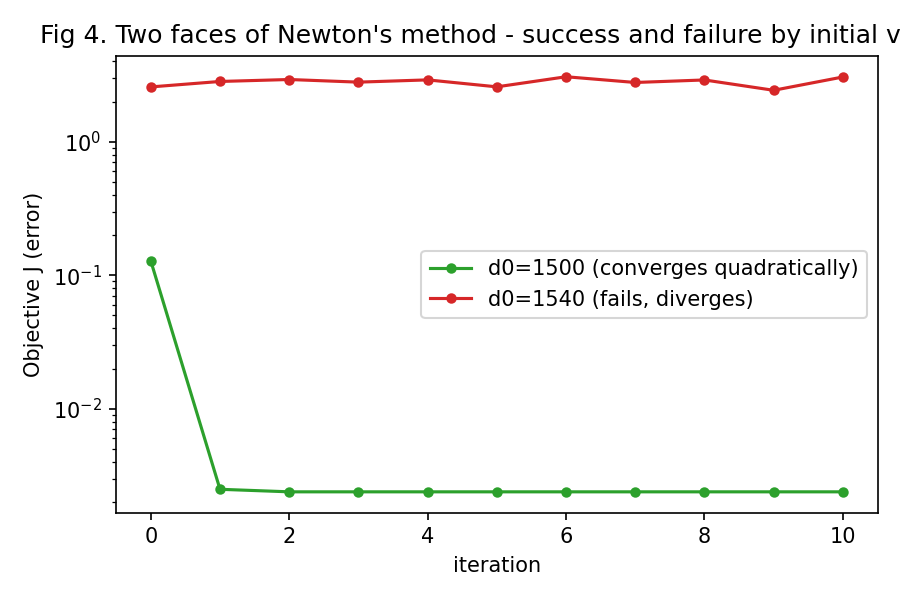
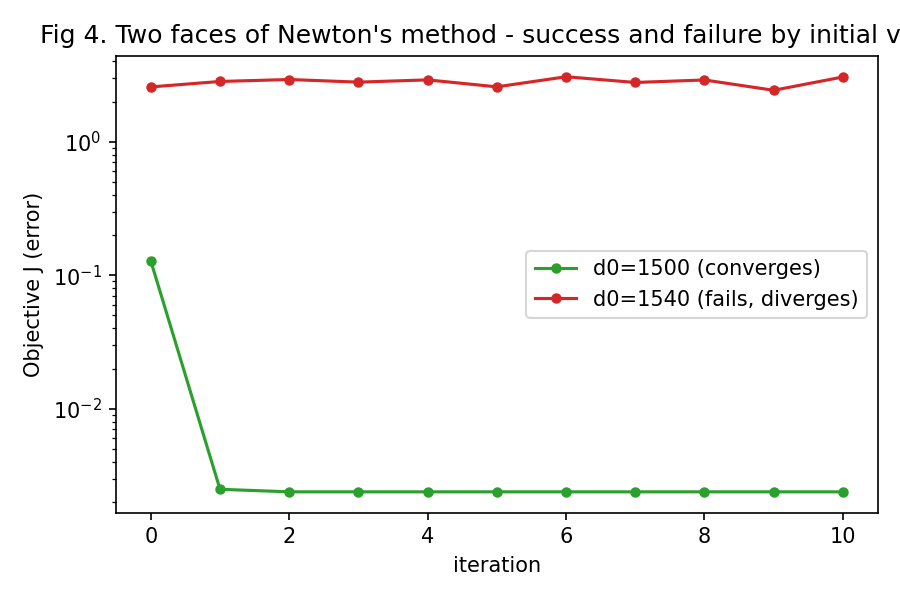
fix(post): optimization-newton-gauss-newton — 점검 반영: 번역체·근거·그림, 그림 다시 생성
tech-writing-style 점검(2026-10-15) 반영:
- 번역체·어색한 문장 다듬기 (한·영)
- 그림·표와 맞지 않던 본문·캡션 서술 정정, 근거보다 넓던 결론을 실험 조건으로 한정
- 그림을 다시 그려야 하는 경미 항목은 따로 처리 예정
근거: _references/optimization-newton-gauss-newton/audit-20261015.md (git 제외)

Changed region(s): [[0.4667, 0.39, 0.9644, 0.54]]

diff --git a/_code/optimization-newton-gauss-newton/generate_figures.py b/_code/optimization-newton-gauss-newton/generate_figures.py
@@ -49,7 +49,7 @@ LABELS = {
         "fig2": "그림2. 두께 추정값 vs iteration (d0=1540nm)",
         "objective_err": "목적함수 J (error)",
         "fig3": "그림3. 목적함수 J vs iteration (d0=1540nm)",
-        "success": "d0={:.0f} (성공, 2차수렴)", "failure": "d0={:.0f} (실패, 발산)",
+        "success": "d0={:.0f} (성공)", "failure": "d0={:.0f} (실패, 발산)",
         "fig4": "그림4. Newton법의 두 얼굴 - 초기값에 따른 성공/실패",
         "p_nt": "[d0={:.0f}] Newton 최종 두께: {:.2f} nm (실패)",
         "p_gn": "[d0={:.0f}] Gauss-Newton 최종 두께: {:.2f} nm",
@@ -77,7 +77,7 @@ LABELS = {
         "fig2": "Fig 2. Thickness estimate vs iteration (d0=1540nm)",
         "objective_err": "Objective J (error)",
         "fig3": "Fig 3. Objective J vs iteration (d0=1540nm)",
-        "success": "d0={:.0f} (converges quadratically)", "failure": "d0={:.0f} (fails, diverges)",
+        "success": "d0={:.0f} (converges)", "failure": "d0={:.0f} (fails, diverges)",
         "fig4": "Fig 4. Two faces of Newton's method - success and failure by initial value",
         "p_nt": "[d0={:.0f}] Newton final thickness: {:.2f} nm (failed)",
         "p_gn": "[d0={:.0f}] Gauss-Newton final thickness: {:.2f} nm",

diff --git a/_posts/2026-09-10-optimization-newton-gauss-newton-en.md b/_posts/2026-09-10-optimization-newton-gauss-newton-en.md
@@ -29,7 +29,7 @@ $$ J'(d) + J''(d)\Delta d = 0 \quad\Longrightarrow\quad \Delta d = -\frac{J'(d)}
 
 $$ d_{k+1} = d_k - \frac{J'(d_k)}{J''(d_k)} $$
 
-In other words, a Newton step jumps straight to the vertex of the parabola fitted at the current point. Compared with gradient descent, $$1/J''(d_k)$$ has taken the place of $\alpha$. Where the local curvature is large — a narrow, steep valley — the step is automatically small; where the curvature is gentle, the step is large. Figure 1 shows the parabola that locally approximates the actual $J(d)$ at a thickness of $d_k=1500$ nm.
+In other words, a Newton step jumps straight to the vertex of the parabola fitted at the current point. Compared with gradient descent, $$1/J''(d_k)$$ has taken the place of $\alpha$. Where the local curvature is large — a narrow, steep valley — the step is automatically small; where the curvature is gentle, the step is large. Fig 1 shows the parabola that locally approximates the actual $J(d)$ at a thickness of $d_k=1500$ nm.
 
 <img src="/assets/img/posts/optimization-newton-gauss-newton/en/fig1-quadratic-approximation.png" alt="Local quadratic approximation of the objective and the Newton step" width="600">
 _Fig 1. Quadratic approximation of the objective fitted at d=1500 nm (red dashed) and the Newton step. The parabola nearly overlaps the actual J(d) (blue), and a single step lands at 1489.8 nm, next to the minimum._
@@ -65,39 +65,39 @@ In theory Newton's method converges quadratically near the solution: each error 
 Under exactly the conditions of post 1 (seed=0, true thickness 1490 nm, the same noise, $d_0=1540$ nm), gradient descent ($\alpha=300$), Newton, and the Gauss-Newton of section 5 were run side by side.
 
 <img src="/assets/img/posts/optimization-newton-gauss-newton/en/fig2-thickness-vs-iteration.png" alt="Thickness estimate versus iteration" width="600">
-_Fig 2. Thickness estimate versus iteration for the three methods from an initial value of 1540 nm. Only Newton (red) fails to converge, circling hundreds of nanometres away from the minimum._
+_Fig 2. Thickness estimate versus iteration for the three methods from an initial value of 1540 nm. Only Newton (red) fails to converge, circling 100 to 400 nm away from the minimum._
 
 <img src="/assets/img/posts/optimization-newton-gauss-newton/en/fig3-objective-vs-iteration.png" alt="Objective function J versus iteration" width="600">
 _Fig 3. The objective J for the same runs (log scale). Gradient descent reaches the noise floor in five steps and Gauss-Newton in three, while Newton stays near its starting value._
 
 The outcome was not the expected one. Gradient descent (blue) converges smoothly, as in post 1. Newton (red), however, jumps to 1876 nm on the very first step, wanders between 1824 and 1921 nm for steps 1 to 9, and on the tenth leaves even that range, dropping to 1637 nm. Either way it is more than 100 nm from the minimum (1490 nm). These individual values are sensitive to rounding error and are not worth quoting; section 3 closes with the reason.
 
-The objective (Fig. 3) makes the difference sharper. Gradient descent reaches the noise floor ($J\approx0.0024$) in five steps — the value below which no thickness can go, because of the measurement noise. Newton's $J$, on the other hand, stays between 2.4 and 3.1 for all ten steps and never gets away from its starting value (2.57). The green curve (Gauss-Newton) is taken up in section 6. For all that quadratic convergence is meant to be faster, at this initial value Newton's method simply does not work.
+The objective (Fig 3) makes the difference sharper. Gradient descent reaches the noise floor ($J\approx0.0024$) in five steps — the value below which no thickness can go, because of the measurement noise. Newton's $J$, on the other hand, stays between 2.4 and 3.1 for all ten steps and never gets away from its starting value (2.57). The green curve (Gauss-Newton) is taken up in section 6. Quadratic convergence is supposed to be faster, yet from this starting value Newton's method does not work at all.
 
 ## 3. Why did Newton's method fail?
 
-The objective $J(d)$ plotted in section 2 of post 1 (Fig. 2 there) makes the reason visible: there are points where the quadratic approximation collapses. The reflectance of a thin film oscillates with thickness as interference fringes, and $J(d)$ was correspondingly non-convex: a global minimum with a row of local minima around it. A quadratic model can be built at any point. But it has a bottom only if the curvature there — $$J''(d)$$ — is positive, since the parabola has to open upward for the step to point toward a minimum. Evaluating $$J''(d)$$ at two points gives:
+The objective $J(d)$ plotted in section 2 of post 1 (Fig 2 there) makes the reason visible: there are points where the quadratic approximation collapses. The reflectance of a thin film oscillates with thickness as interference fringes, and $J(d)$ was correspondingly non-convex: a global minimum with a row of local minima around it. A quadratic model can be built at any point. But it has a bottom only if the curvature there — $$J''(d)$$ — is positive, since the parabola has to open upward for the step to point toward a minimum. Evaluating $$J''(d)$$ at two points gives:
 
 | Point | $$J''(d)$$ | Meaning |
 |---|---|---|
 | $d=1500$ | $+0.002487$ | convex, a well-behaved Newton step |
 | $d=1540$ | $-0.000233$ | concave, the step is thrown the other way |
 
-At $d=1540$ the sign of the curvature is itself inverted. The curvature changes sign at about 1537 nm, and the top of the local "hill" thrown up by the interference fringes is at 1589 nm, so 1540 nm sits on the slope just starting up that hill. The Newton step $$-J'/J''$$ moves in the direction of *increasing* objective whenever $$J''$$ is negative. Figure 4 shows the same method meeting entirely different outcomes from starting points only 40 nm apart.
+At $d=1540$ the sign of the curvature is itself inverted. The curvature changes sign at about 1537 nm, and the top of the local "hill" thrown up by the interference fringes is at 1589 nm, so 1540 nm sits about halfway up that hill, where the curvature turns concave. The Newton step $$-J'/J''$$ moves in the direction of *increasing* objective whenever $$J''$$ is negative. Fig 4 shows the same method meeting entirely different outcomes from starting points only 40 nm apart.
 
 <img src="/assets/img/posts/optimization-newton-gauss-newton/en/fig4-newton-success-vs-failure.png" alt="Two faces of Newton's method" width="600">
-_Fig 4. Two faces of Newton's method. From 1500 nm (green) it reaches the noise floor in two steps; from 1540 nm (red) it is still near its starting objective after ten._
+_Fig 4. Two faces of Newton's method. From 1500 nm (green) it is near the noise floor (0.0025) after one step and at it (0.0024) after two; from 1540 nm (red) it is still near its starting objective after ten._
 
-From $d_0=1500$ (green) the curvature is well behaved and the method drops to the noise floor in two steps, textbook quadratic convergence. From $d_0=1540$ (red) it is still further from the minimum after ten steps than it started.
+From $$d_0=1500$$ (green) the curvature is well behaved and the method falls to near the noise floor (0.0025) in one step and to the floor (0.0024) in two. The quadratic shape is hidden in this plot because $J$ is pinned at the noise floor; it shows in the errors 9.88 → 0.288 → 0.0001 nm of section 1. From $$d_0=1540$$ (red) it is still further from the minimum after ten steps than it started.
 
-Drawing the failed first step the way Figure 1 was drawn shows what happened (Fig. 5). The parabola fitted at $d=1540$ opens downward. With no bottom to find, the Newton step, which looks for the point of zero slope, goes to the top of the parabola. That top lies 336 nm away at 1876 nm, and the first step lands there. The parabola predicts $J=15.7$ at that point; the actual $J$ is 2.83, higher than at the start (2.57).
+Drawing the failed first step the way Fig 1 was drawn shows what happened (Fig 5). The parabola fitted at $d=1540$ opens downward. With no bottom to find, the Newton step, which looks for the point of zero slope, goes to the top of the parabola. That top lies 336 nm away at 1876 nm, and the first step lands there. The parabola predicts $J=15.7$ at that point; the actual $J$ is 2.83, higher than at the start (2.57).
 
 <img src="/assets/img/posts/optimization-newton-gauss-newton/en/fig5-concave-quadratic-approximation.png" alt="Quadratic approximation at a point of negative curvature" width="600">
 _Fig 5. Quadratic approximation fitted where the curvature is negative (d=1540 nm). The parabola (red dashed) opens downward, so the Newton step goes to its top at 1876 nm, where the parabola no longer resembles the actual J(d) (blue)._
 
 So Newton's method does not care whether the vertex of its parabola is a bottom or a top. This is not an implementation bug but a structural weakness of Newton's method. The guarantee that a Newton step is a descent direction holds only where the Hessian at that point is positive definite. For an objective as folded as this one, the fate of the method depends on which "valley" the initial value happens to sit in.
 
-One caveat belongs here. The individual iterates along the diverging trajectory in Figures 2 and 3 are not numbers worth quoting. After the first step the trajectory passes through regions where $$J''$$ is close to zero, which strongly amplifies the rounding error of the central-difference $$J''$$ (about $10^{-9}$). Perturbing the initial value by as little as $10^{-12}$ nm changes that rounding pattern and moves the tenth iterate by more than 200 nm.
+One caveat belongs here. The individual iterates along the diverging trajectory in Figs 2 and 3 are not numbers worth quoting. After the first step the trajectory passes through regions where $$J''$$ is close to zero, which strongly amplifies the rounding error of the central-difference $$J''$$ (about $10^{-9}$). Perturbing the initial value by as little as $10^{-12}$ nm changes that rounding pattern and moves the tenth iterate by more than 200 nm.
 
 ```text
 sensitivity of the diverging trajectory to the initial value (10th-step thickness):
@@ -106,7 +106,7 @@ sensitivity of the diverging trajectory to the initial value (10th-step thicknes
   d0=1540.000000000100 -> 1854.98 nm
 ```
 
-What does reproduce is that the method never converges and wanders hundreds of nanometres from the minimum — not any particular iterate.
+What does reproduce is that the method never converges and wanders 100 to 400 nm from the minimum — not any particular iterate.
 
 ## 4. The limits of Newton's method
 
@@ -134,7 +134,11 @@ The same approximation can be seen from another side: at every step, straighten 
 
 $$ r_i(d+\Delta d) \approx r_i(d) + r_i'(d)\,\Delta d $$
 
-Choosing the $\Delta d$ that minimizes the sum of squares of these lines, $$\frac{1}{2}\sum_i \big[ r_i(d) + r_i'(d)\,\Delta d \big]^2$$, gives exactly the step formula below. Gauss-Newton, in other words, solves one straight-line fit (a linear least-squares problem) per step. It is like replacing a winding mountain path with a flat map of where you stand, choosing where to go, taking one step, and redrawing the map. The sum of squares of a linear model is quadratic in $\Delta d$ with coefficient $$\frac{1}{2}\sum_i r_i'^2 \ge 0$$ on $\Delta d^2$, so it is always a bowl that opens upward. The good property of the approximate Hessian discussed below comes from here. The discarded term $$r_i r_i''$$ reads off the same picture: how far the residual bends away from its line ($$r_i''$$), multiplied by the size of the residual ($r_i$).
+Choosing the $\Delta d$ that minimizes the sum of squares of these lines, $$\frac{1}{2}\sum_i \big[ r_i(d) + r_i'(d)\,\Delta d \big]^2$$, gives exactly the step formula below. Gauss-Newton, in other words, solves one straight-line fit (a linear least-squares problem) per step. It is like replacing a winding mountain path with a flat map of where you stand, choosing where to go, taking one step, and redrawing the map.
+
+The sum of squares of a linear model is quadratic in $\Delta d$ with coefficient $$\frac{1}{2}\sum_i r_i'^2 \ge 0$$ on $\Delta d^2$, so it is always a bowl that opens upward. The good property of the approximate Hessian discussed below comes from here.
+
+The discarded term $$r_i r_i''$$ reads off the same picture: how far the residual bends away from its line ($$r_i''$$), multiplied by the size of the residual ($r_i$).
 
 With this approximation the step becomes:
 
@@ -161,7 +165,7 @@ This approximate Hessian $J^TJ$ — here $$\sum_i r_i'^2$$ — has a property th
 
 ## 6. Running Gauss-Newton from the same failure point
 
-The green curve in Figures 2 and 3 is Gauss-Newton. From $d_0=1540$ nm, the exact starting point at which Newton diverged, it reaches the noise floor by the third step — faster even than gradient descent ($\alpha=300$), which took five under the same conditions.
+The green curve in Figs 2 and 3 is Gauss-Newton. From $d_0=1540$ nm, the exact starting point at which Newton diverged, it reaches the noise floor by the third step — faster even than gradient descent ($\alpha=300$), which took five under the same conditions.
 
 | Method | Result at $d_0=1540$ nm |
 |---|---|
@@ -181,13 +185,13 @@ First, if the residuals themselves are large — the model fits the data poorly 
 
 Second, if the Jacobian loses rank or comes close to singular — here, if $$\sum_i r_i'^2$$ approaches zero — the approximate Hessian $J^TJ$ nearly vanishes. The discarded term is then no longer negligible by comparison, and the solution of the normal equation, the step itself, becomes far too large. Section 6 of [post 3](/en/posts/optimization-levenberg-marquardt/) reproduces this situation with a model whose refractive index is wrongly set to 1.02.
 
-Third, if the starting point lies in the basin of a different local minimum, Gauss-Newton converges to that minimum, as it must. Restarting from around 1300 nm and around 1690 nm gives 1293 nm and 1689 nm respectively — precisely the neighbouring local minima visible in Figure 2 of post 1. The stability of Gauss-Newton does not mean "it finds the global minimum"; it means something closer to "once it has a direction, it goes there without wandering."
+Third, if the starting point lies in the basin of a different local minimum, Gauss-Newton converges to that minimum, as it must. Restarting from around 1300 nm and around 1690 nm gives 1293 nm and 1689 nm respectively — precisely the neighbouring local minima visible in Fig 2 of post 1. The stability of Gauss-Newton does not mean "it finds the global minimum"; it means something closer to "once it has a direction, it goes there without wandering."
 
 ## Summary
 
-Newton's method promises quadratic convergence in theory. But the promise holds only where the objective is locally convex. On this problem, folded by interference fringes, it fails to converge at all from some initial values. Gauss-Newton exploits the structure of nonlinear least squares to approximate the Hessian by $J^TJ$, removing that failure mode altogether, at the price of slower convergence when the residuals are large. For a least-squares problem, then, there is little reason to use plain Newton. If the objective is a sum of squares and the residuals are small, use Gauss-Newton; if the steps jump around or the sensitivity is weak, use the LM method of the next post. Neither chooses which basin to end up in; [post 4](/en/posts/optimization-global-heuristics/) takes up that problem.
+Newton's method promises quadratic convergence in theory. But the promise holds only where the objective is locally convex. On this problem, folded by interference fringes, it fails to converge at all from some initial values. Gauss-Newton exploits the structure of nonlinear least squares to approximate the Hessian by $J^TJ$, removing that failure mode altogether, at the price of slower convergence when the residuals are large. For a problem whose objective is a sum of squares and whose residuals are small, then, there is little reason to use plain Newton. In that case use Gauss-Newton; if the steps jump around or the sensitivity is weak, use the LM method of the next post. Neither chooses which basin to end up in; [post 4](/en/posts/optimization-global-heuristics/) takes up that problem.
 
-The next post covers LM, which uses a damping parameter to tame the cases where the Gauss-Newton step grows too large or the Jacobian is nearly singular. It is the de facto standard in metrology, and its structure moves smoothly between gradient descent and Gauss-Newton. Measured against the first condition of section 7, what LM prevents is the divergence that large residuals can cause; what remains is the slow convergence, because near the solution it uses the same approximate Hessian as Gauss-Newton.
+The next post covers LM, which uses a damping parameter to tame the cases where the Gauss-Newton step grows too large or the Jacobian is nearly singular. It is the de facto standard in metrology, and its structure moves smoothly between gradient descent and Gauss-Newton. Measured against the first condition of section 7, the slow convergence that large residuals cause remains even with LM, because near the solution it uses the same approximate Hessian as Gauss-Newton.
 
 ## References
 
